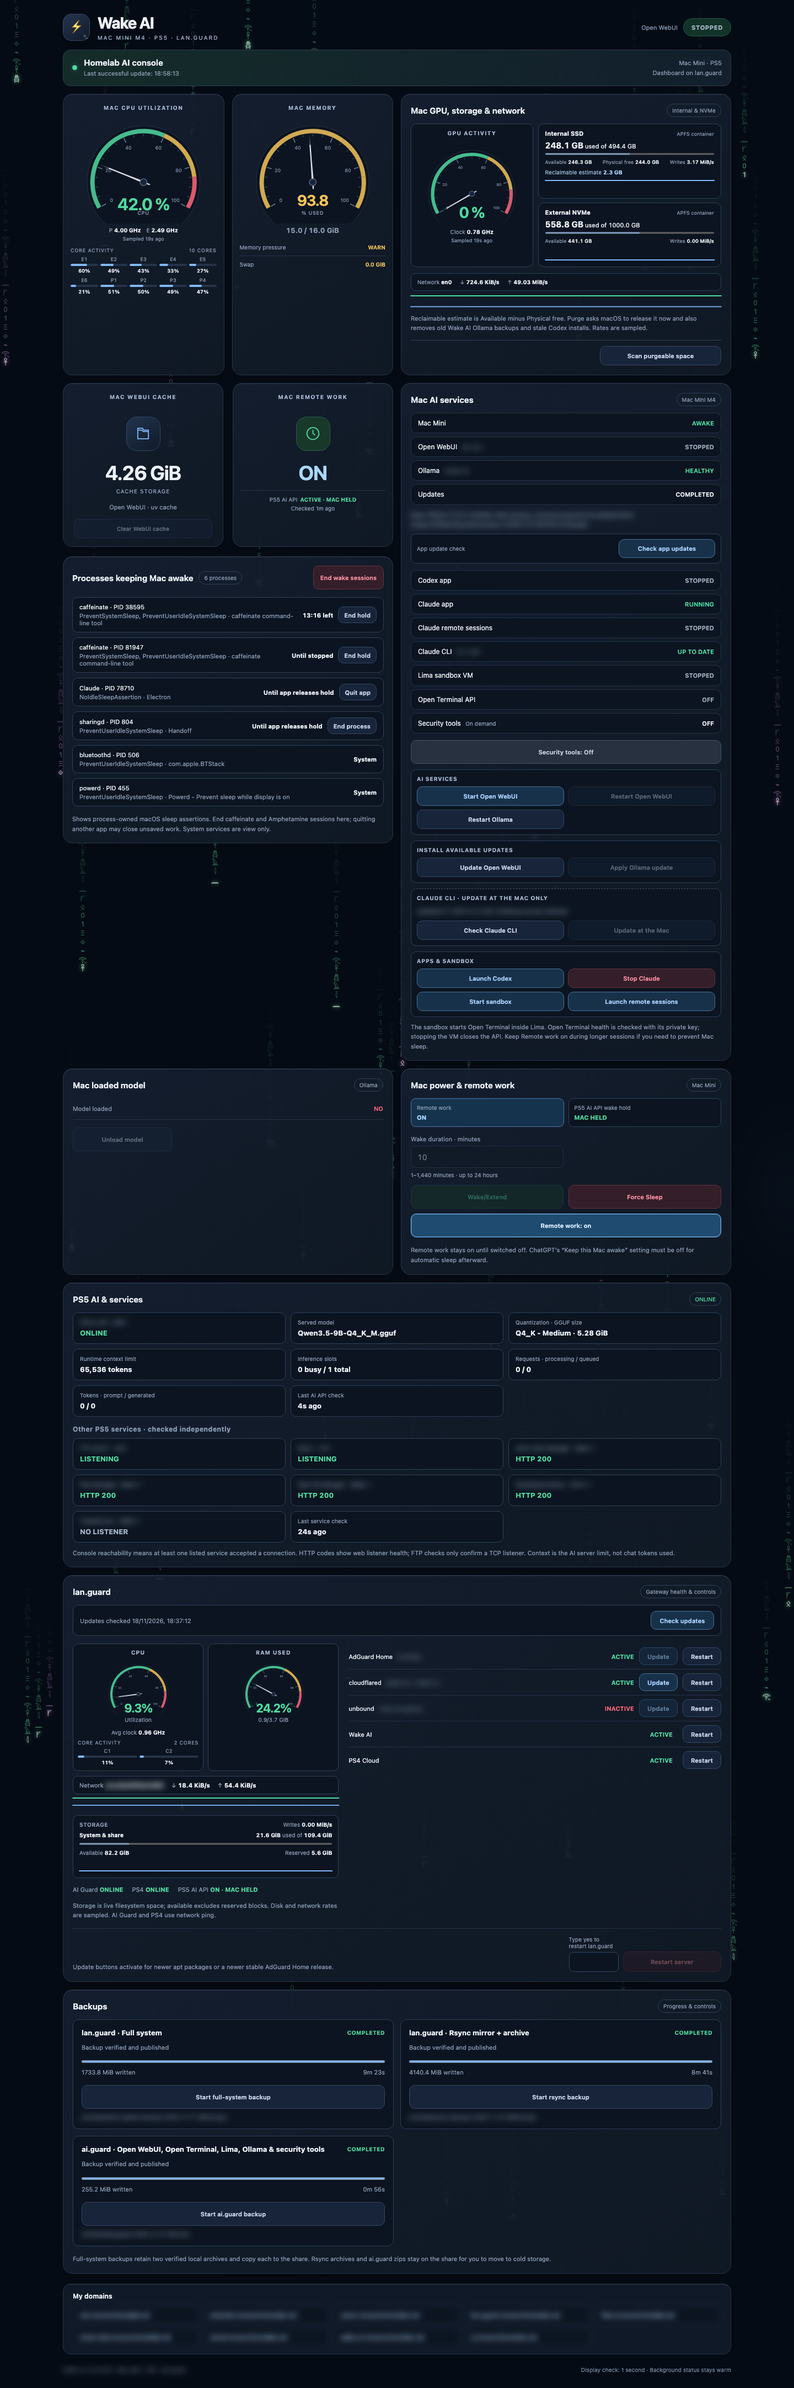
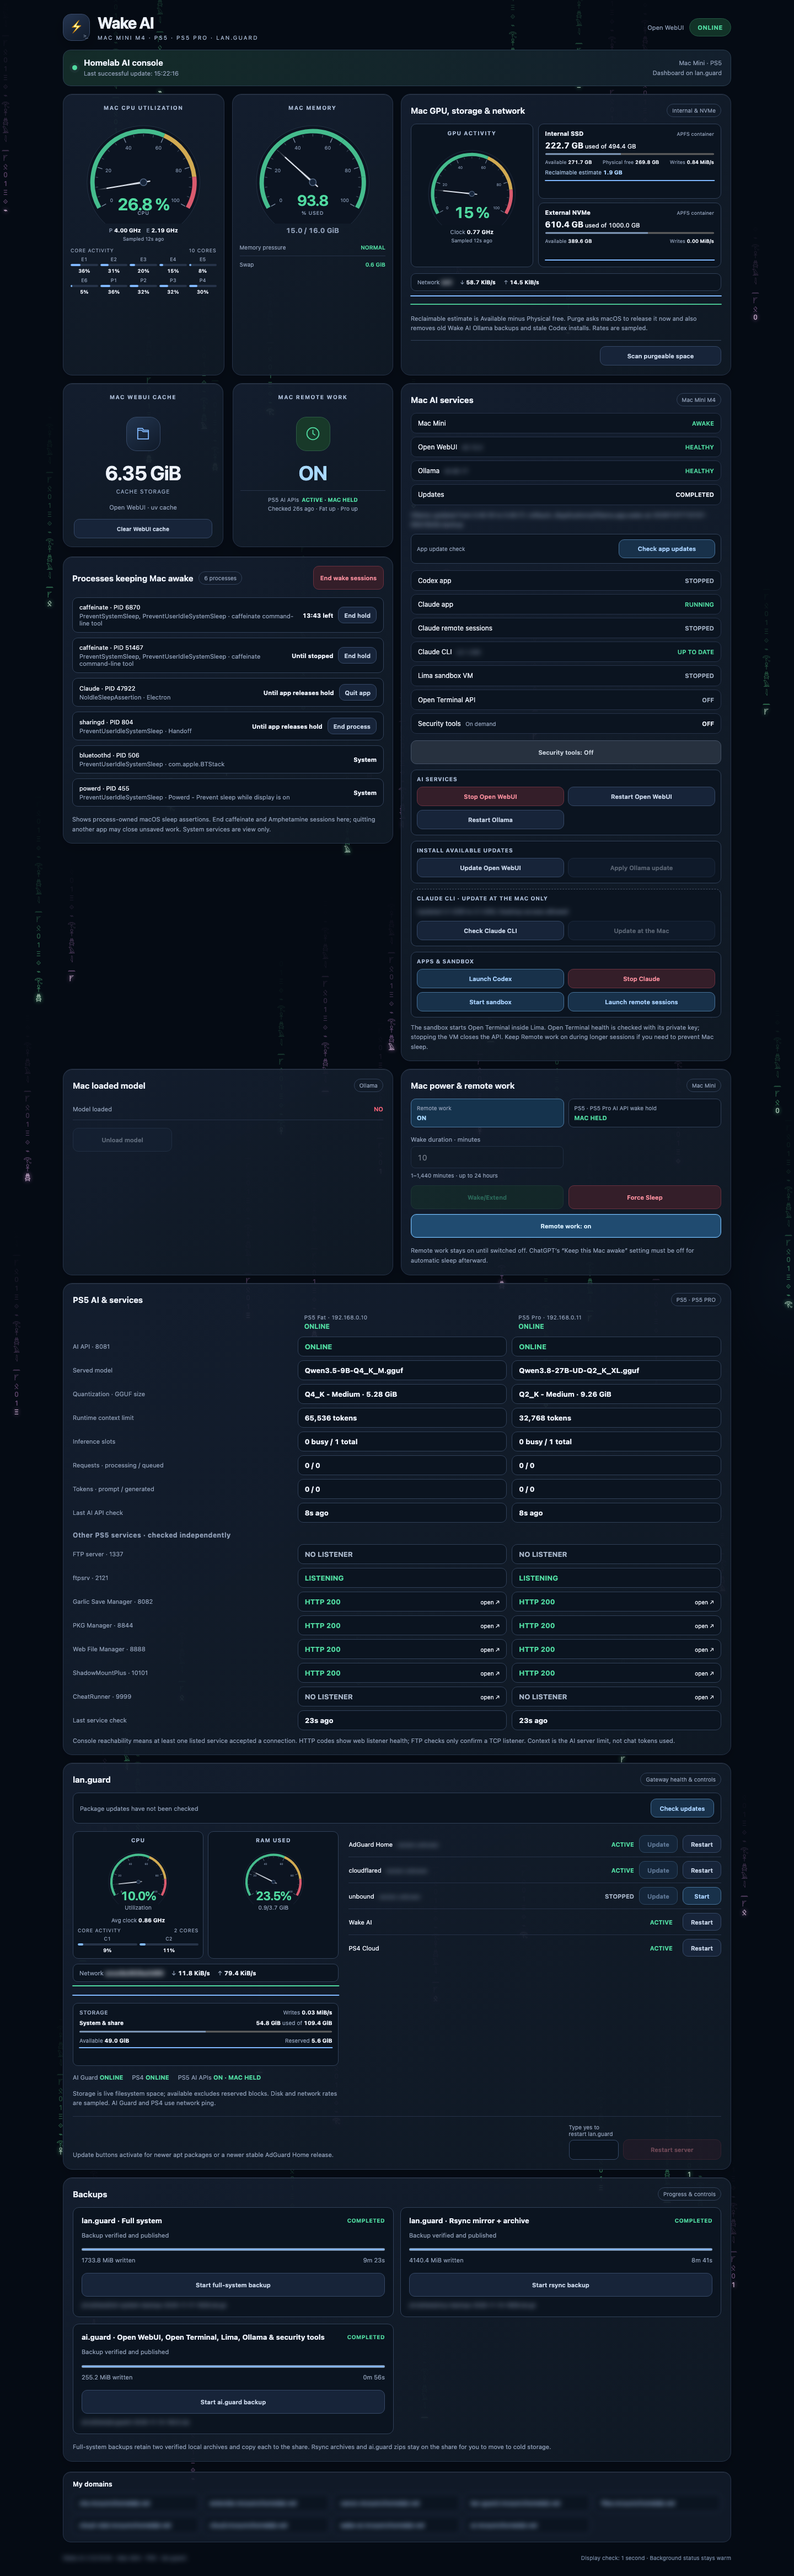
Profile: current Wake AI capture with the PS5 and PS5 Pro side by side

diff --git a/README.md b/README.md
@@ -30,7 +30,7 @@ Self-hosted on 5G: a Linux gateway publishes everything through Cloudflare Tunne
 - **Sysadmin ToolZz** — native SwiftUI macOS dashboard for system health, cleanup and DNS, controlling the above over SSH.
 
 <p>
-  <img src="assets/wake-ai.png" width="49%" align="top" alt="Wake AI dashboard: Mac mini CPU and core activity, memory, GPU, storage, network and AI service status">
+  <img src="assets/wake-ai.png" width="49%" align="top" alt="Wake AI dashboard: Mac mini CPU and core activity, memory, GPU, storage, network and AI service status, and the PS5 and PS5 Pro AI servers side by side">
   <img src="assets/ps4-cloud.png" width="49%" align="top" alt="PS4 Cloud dashboard: APU, thermal, memory, power and cost gauges, network and disk activity">
 </p>
 
